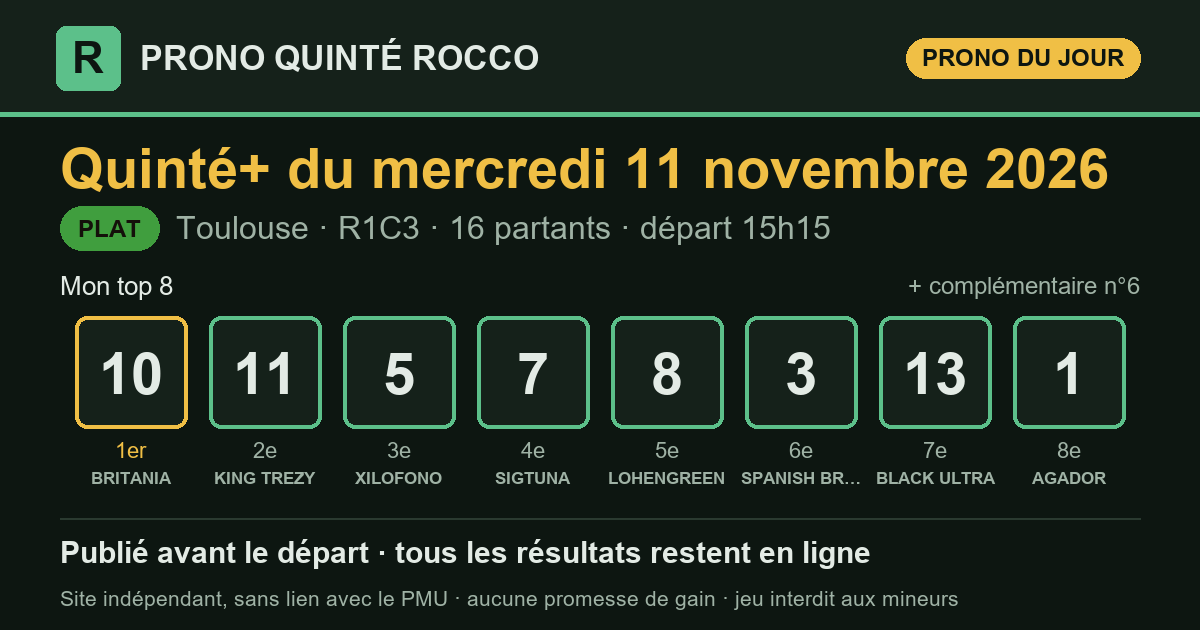
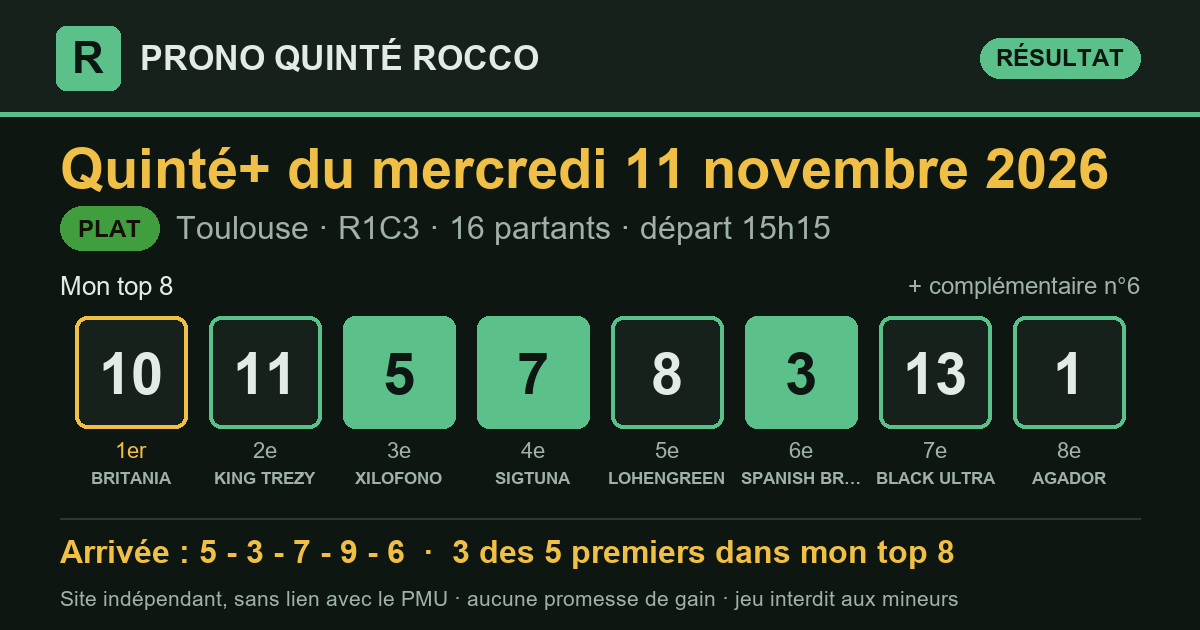
Résultat du Quinté+ 2026-11-11 Toulouse R1C3 — publié le 11/11/2026 16:24 (heure de Paris)

diff --git a/partants.html b/partants.html
@@ -3,7 +3,7 @@
 <head>
 <meta charset="utf-8">
 <meta name="viewport" content="width=device-width, initial-scale=1, viewport-fit=cover">
-<title>Partants du Quinté+ du mercredi 11 novembre 2026 — Prono Quinté Rocco</title>
+<title>Partants du Quinté+ du jeudi 12 novembre 2026 — Prono Quinté Rocco</title>
 <meta name="description" content="Les partants du prochain Quinté+ (programme officiel du PMU), avec le rang de chaque cheval dans mon prono et les liens vers les pronostics de la presse.">
 <link rel="canonical" href="https://prono-quinte-rocco.fr/partants.html">
 <link rel="stylesheet" href="style.css?v=97adbe73">
@@ -13,7 +13,7 @@
 <meta property="og:site_name" content="Prono Quinté Rocco">
 <meta property="og:locale" content="fr_FR">
 <meta property="og:type" content="website">
-<meta property="og:title" content="Partants du Quinté+ du mercredi 11 novembre 2026 — Prono Quinté Rocco">
+<meta property="og:title" content="Partants du Quinté+ du jeudi 12 novembre 2026 — Prono Quinté Rocco">
 <meta property="og:description" content="Les partants du prochain Quinté+ (programme officiel du PMU), avec le rang de chaque cheval dans mon prono et les liens vers les pronostics de la presse.">
 <meta property="og:url" content="https://prono-quinte-rocco.fr/partants.html">
 <meta name="twitter:card" content="summary">
@@ -30,100 +30,105 @@
   <p class="surtitre">Programme officiel du PMU</p>
   <h1>Les partants du prochain Quinté+</h1>
   <div class="fiche-course">
-    <p class="fiche-date">Mercredi 11 novembre 2026</p>
-    <div class="fiche-rc"><span class="pastille" title="Réunion 1">R1</span><span class="pastille" title="Course 3">C3</span><span class="fiche-nom">Prix de la Ville de Toulouse</span></div>
-    <p class="meta"><span class="type t-plat">Plat</span>La Cepiere · 2 400 m · 16 partants</p>
-    <p class="fiche-depart">Départ <b>15:15</b> <span>heure de Paris</span></p>
+    <p class="fiche-date">Jeudi 12 novembre 2026</p>
+    <div class="fiche-rc"><span class="pastille" title="Réunion 1">R1</span><span class="pastille" title="Course 1">C1</span><span class="fiche-nom">Prix Marcel Laurent</span></div>
+    <p class="meta"><span class="type t-attele">Trot attelé</span>Vincennes · 2 100 m · 16 partants</p>
+    <p class="fiche-depart">Départ <b>13:55</b> <span>heure de Paris</span></p>
   </div>
   <p class="surtitre">Les pronostics ailleurs sur le web</p>
-  <div class="liens"><a class="lien-ext" href="https://www.turfoo.fr/programmes-courses/261111/reunion1-toulouse/course3-prix-de-la-ville-de-toulouse/pronostics-presse/" rel="noopener" target="_blank"><b>Les pronostics de la presse →</b><span>sur Turfoo (site extérieur)</span></a><a class="lien-ext" href="https://www.geny.com/programme/2026-11-11" rel="noopener" target="_blank"><b>Partants et pronostics →</b><span>programme du jour sur Geny (site extérieur)</span></a></div>
+  <div class="liens"><a class="lien-ext" href="https://www.turfoo.fr/programmes-courses/261112/reunion1-vincennes/course1-prix-marcel-laurent/pronostics-presse/" rel="noopener" target="_blank"><b>Les pronostics de la presse →</b><span>sur Turfoo (site extérieur)</span></a><a class="lien-ext" href="https://www.geny.com/programme/2026-11-12" rel="noopener" target="_blank"><b>Partants et pronostics →</b><span>programme du jour sur Geny (site extérieur)</span></a></div>
   <div class="liste-boite"><table class="liste-partants">
     <thead><tr><th>N°</th><th>Cheval</th><th class="cote"><span class="long">Cote du matin</span><span class="court">Cote</span></th>
     <th class="ia"><span class="long">Mon prono</span><span class="court">Prono</span></th></tr></thead>
     <tbody><tr>
   <td><span class="tapis petit">1</span></td>
-  <td><span class="cheval">AGADOR</span><span class="sous">M.FOREST · J.RESIMONT</span></td>
-  <td class="cote num">18,0</td>
-  <td class="ia"><span class="etat place">8<sup>e</sup></span></td>
+  <td><span class="cheval">LOMBOK JIEL</span><span class="sous">P.Y. VERVA · J.L. DERSOIR</span></td>
+  <td class="cote num">—</td>
+  <td class="ia">—</td>
 </tr><tr>
   <td><span class="tapis petit">2</span></td>
-  <td><span class="cheval">POCA GEN</span><span class="sous">T.PICCONE · MME C.HERISSON DE BEAUVOIR</span></td>
-  <td class="cote num">24,0</td>
+  <td><span class="cheval">FRANK GIO</span><span class="sous">M. ABRIVARD · S. GUARATO</span></td>
+  <td class="cote num">—</td>
   <td class="ia">—</td>
 </tr><tr>
   <td><span class="tapis petit">3</span></td>
-  <td><span class="cheval">SPANISH BREEZE CEN</span><span class="sous">A.LEMAITRE · P.OLAVE VALDIVIELSO</span></td>
-  <td class="cote num">9,1</td>
-  <td class="ia"><span class="etat place">6<sup>e</sup></span></td>
+  <td><span class="cheval">LIONHEART</span><span class="sous">N. BAZIRE · N. BAZIRE</span></td>
+  <td class="cote num">—</td>
+  <td class="ia">—</td>
 </tr><tr>
   <td><span class="tapis petit">4</span></td>
-  <td><span class="cheval">SHARP RISE</span><span class="sous">A.GAVILAN · MME S.AUDOY</span></td>
-  <td class="cote num">46,0</td>
+  <td><span class="cheval">MAGIC NIGHT</span><span class="sous">B. ROCHARD · PH. ALLAIRE</span></td>
+  <td class="cote num">—</td>
   <td class="ia">—</td>
 </tr><tr>
   <td><span class="tapis petit">5</span></td>
-  <td><span class="cheval">XILOFONO</span><span class="sous">V.JANACEK · G.ARIZKORRETA ELOSEGUI</span></td>
-  <td class="cote num">14,0</td>
-  <td class="ia"><span class="etat place">3<sup>e</sup></span></td>
+  <td><span class="cheval">FALCO KILLER GAR</span><span class="sous">CL. DUVALDESTIN · TH. DUVALDESTIN</span></td>
+  <td class="cote num">—</td>
+  <td class="ia">—</td>
 </tr><tr>
   <td><span class="tapis petit">6</span></td>
-  <td><span class="cheval">NOLITO</span><span class="sous">G.GUEDJ-GAY · MME S.GAVILAN</span></td>
-  <td class="cote num">22,0</td>
-  <td class="ia"><span class="etat place">compl.</span></td>
+  <td><span class="cheval">LIZA JOSSELYN</span><span class="sous">J.M. BAZIRE · N. BAZIRE</span></td>
+  <td class="cote num">—</td>
+  <td class="ia">—</td>
 </tr><tr>
   <td><span class="tapis petit">7</span></td>
-  <td><span class="cheval">SIGTUNA</span><span class="sous">H.MOUESAN · D.WATRIGANT (S)</span></td>
-  <td class="cote num">14,0</td>
-  <td class="ia"><span class="etat place">4<sup>e</sup></span></td>
+  <td><span class="cheval">MAITRE JACQUES</span><span class="sous">LEO ABRIVARD · L.CL. ABRIVARD</span></td>
+  <td class="cote num">—</td>
+  <td class="ia">—</td>
 </tr><tr>
   <td><span class="tapis petit">8</span></td>
-  <td><span class="cheval">LOHENGREEN</span><span class="sous">M.GRANDIN · C.ESCUDER</span></td>
-  <td class="cote num">11,0</td>
-  <td class="ia"><span class="etat place">5<sup>e</sup></span></td>
+  <td><span class="cheval">BULLET THE BLUESKY</span><span class="sous">D. WAJERSTEN · Daniel WAJERSTEN</span></td>
+  <td class="cote num">—</td>
+  <td class="ia">—</td>
 </tr><tr>
   <td><span class="tapis petit">9</span></td>
-  <td><span class="cheval">ZILYA</span><span class="sous">D.PROVOST · M.CESANDRI (S)</span></td>
-  <td class="cote num">29,0</td>
+  <td><span class="cheval">L&#x27;AS DESBOIS</span><span class="sous">W. BIGEON · W. BIGEON</span></td>
+  <td class="cote num">—</td>
   <td class="ia">—</td>
 </tr><tr>
   <td><span class="tapis petit">10</span></td>
-  <td><span class="cheval">BRITANIA</span><span class="sous">I.MENDIZABAL · F.ROHAUT (S)</span></td>
-  <td class="cote num">4,9</td>
-  <td class="ia"><span class="etat place">1<sup>er</sup></span></td>
+  <td><span class="cheval">LANCIER DU GOUTIER</span><span class="sous">THEO DUVALDESTIN · TH. DUVALDESTIN</span></td>
+  <td class="cote num">—</td>
+  <td class="ia">—</td>
 </tr><tr>
   <td><span class="tapis petit">11</span></td>
-  <td><span class="cheval">KING TREZY</span><span class="sous">R.THOMAS · C&amp;Y.LERNER (S)</span></td>
-  <td class="cote num">4,6</td>
-  <td class="ia"><span class="etat place">2<sup>e</sup></span></td>
+  <td><span class="cheval">LIBERTE DE CHOISEL</span><span class="sous">A. BARRIER · S.G. DUPONT</span></td>
+  <td class="cote num">—</td>
+  <td class="ia">—</td>
 </tr><tr>
   <td><span class="tapis petit">12</span></td>
-  <td><span class="cheval">GOLD PLAYER</span><span class="sous">A.CRASTUS · F.FORESI</span></td>
-  <td class="cote num">25,0</td>
+  <td><span class="cheval">LORD DU BASSIN</span><span class="sous">A. ABRIVARD · L.CL. ABRIVARD</span></td>
+  <td class="cote num">—</td>
   <td class="ia">—</td>
 </tr><tr>
   <td><span class="tapis petit">13</span></td>
-  <td><span class="cheval">BLACK ULTRA</span><span class="sous">A.WERLE · O.TRIGODET (S)</span></td>
-  <td class="cote num">13,0</td>
-  <td class="ia"><span class="etat place">7<sup>e</sup></span></td>
+  <td><span class="cheval">MADRID HAUFOR</span><span class="sous">D. BONNE · CH. BIGEON</span></td>
+  <td class="cote num">—</td>
+  <td class="ia">—</td>
 </tr><tr>
   <td><span class="tapis petit">14</span></td>
-  <td><span class="cheval">GEORGES VILLE</span><span class="sous">R.DUBORD · AJ.BAPTISTA RIBEIRO DE ABREU</span></td>
-  <td class="cote num">20,0</td>
+  <td><span class="cheval">KOOGOO GAAGAA</span><span class="sous">R. CONGARD · N. BAZIRE</span></td>
+  <td class="cote num">—</td>
   <td class="ia">—</td>
 </tr><tr>
   <td><span class="tapis petit">15</span></td>
-  <td><span class="cheval">SPANISH LIGHT</span><span class="sous">M.FOULON · RC.MONTENEGRO</span></td>
-  <td class="cote num">26,0</td>
+  <td><span class="cheval">MILA DES COUPERIES</span><span class="sous">L.CL. ABRIVARD · L.CL. ABRIVARD</span></td>
+  <td class="cote num">—</td>
   <td class="ia">—</td>
 </tr><tr>
   <td><span class="tapis petit">16</span></td>
-  <td><span class="cheval">SWISS MONEY</span><span class="sous">A.MEROU · MME AL.GUILDOUX</span></td>
-  <td class="cote num">53,0</td>
+  <td><span class="cheval">L&#x27;ECRIN D&#x27;OR</span><span class="sous">A. REBECHE · L.CL. ABRIVARD</span></td>
+  <td class="cote num">—</td>
+  <td class="ia">—</td>
+</tr><tr class="np">
+  <td><span class="tapis petit">17</span></td>
+  <td><span class="cheval">MIDWAY LADY</span><span class="sous">J. DUBOIS · Sté. Ent. Etienne DUBOIS</span></td>
+  <td class="cote num">NP</td>
   <td class="ia">—</td>
 </tr></tbody>
   </table></div>
-  <p class="meta">La colonne « Mon prono » donne le rang de chaque cheval dans mon top 8, tel qu&#x27;il est publié sur ce site. Sous chaque cheval : jockey · entraîneur. Partants et cotes : programme
-  officiel du PMU, lu le 11/11 à 11:53 (heure de Paris). NP = non-partant.</p>
+  <p class="meta">Mon prono de cette course sera publié le matin de la course, avant le départ. Sous chaque cheval : driver · entraîneur. Partants et cotes : programme
+  officiel du PMU, lu le 11/11 à 16:24 (heure de Paris). NP = non-partant.</p>
 </section>
 </main>
 <footer class="pied">

diff --git a/index.html b/index.html
@@ -16,7 +16,7 @@
 <meta property="og:title" content="Pronostics Quinté+ et e-Super Pick5 du mercredi 11 novembre 2026 — Prono Quinté Rocco">
 <meta property="og:description" content="Pronostics Quinté+ et e-Super Pick5 du jour : mes top 8, publiés avant le départ, puis tous les résultats et le rendement réel.">
 <meta property="og:url" content="https://prono-quinte-rocco.fr/">
-<meta property="og:image" content="https://prono-quinte-rocco.fr/partage/jour-2026-11-11.png?v=dde22173">
+<meta property="og:image" content="https://prono-quinte-rocco.fr/partage/jour-2026-11-11.png?v=25cbda29">
 <meta property="og:image:type" content="image/png">
 <meta property="og:image:width" content="1200">
 <meta property="og:image:height" content="630">
@@ -32,7 +32,7 @@
 <div class="jeux j-quinte" role="navigation" aria-label="Choix du jeu"><a class="jeu jeu-quinte actif" href="index.html" aria-current="true">Quinté+</a><a class="jeu jeu-sp5" href="superpick5.html">e-Super Pick5<small>entre 17 h et 19 h</small></a></div>
 <main>
 <section class="une" aria-labelledby="t-jour">
-  <p class="surtitre">Quinté+ du jour</p>
+  <p class="surtitre">Dernier Quinté+</p>
   <h1 id="t-jour">Le prono du Quinté+, résultats compris</h1>
   <p class="chapo">Chaque matin, j'étudie les partants du Quinté+ avec le logiciel que
   j'ai conçu, selon ma propre méthode, qu'une intelligence artificielle m'aide à
@@ -43,10 +43,13 @@
   <p class="meta">Toulouse · <strong>R1C3</strong> · 16 partants · <span class="lisib">lisibilité <span class="note" aria-label="note 2 sur 5" title="lisibilité 2/5 : course ouverte"><i class="on"></i><i class="on"></i><i class=""></i><i class=""></i><i class=""></i></span> 2/5</span></p>
   <div class="zone-prono">
     <h3 class="zone-titre">Mon top 8</h3>
-    <ol class="partants" aria-label="Mon top 8"><li><span class="rang">1<sup>er</sup></span><span class="tapis ">10</span><span class="nom">BRITANIA</span></li><li><span class="rang">2<sup>e</sup></span><span class="tapis ">11</span><span class="nom">KING TREZY</span></li><li><span class="rang">3<sup>e</sup></span><span class="tapis ">5</span><span class="nom">XILOFONO</span></li><li><span class="rang">4<sup>e</sup></span><span class="tapis ">7</span><span class="nom">SIGTUNA</span></li><li><span class="rang">5<sup>e</sup></span><span class="tapis ">8</span><span class="nom">LOHENGREEN</span></li><li><span class="rang">6<sup>e</sup></span><span class="tapis ">3</span><span class="nom">SPANISH BREEZE CEN</span></li><li><span class="rang">7<sup>e</sup></span><span class="tapis ">13</span><span class="nom">BLACK ULTRA</span></li><li><span class="rang">8<sup>e</sup></span><span class="tapis ">1</span><span class="nom">AGADOR</span></li><li><span class="rang">compl.</span><span class="tapis creux">6</span><span class="nom">NOLITO</span></li></ol>
+    <ol class="partants" aria-label="Mon top 8"><li><span class="rang">1<sup>er</sup></span><span class="tapis ">10</span><span class="nom">BRITANIA</span></li><li><span class="rang">2<sup>e</sup></span><span class="tapis ">11</span><span class="nom">KING TREZY</span></li><li><span class="rang">3<sup>e</sup></span><span class="tapis plein">5</span><span class="nom">XILOFONO</span></li><li><span class="rang">4<sup>e</sup></span><span class="tapis plein">7</span><span class="nom">SIGTUNA</span></li><li><span class="rang">5<sup>e</sup></span><span class="tapis ">8</span><span class="nom">LOHENGREEN</span></li><li><span class="rang">6<sup>e</sup></span><span class="tapis plein">3</span><span class="nom">SPANISH BREEZE CEN</span></li><li><span class="rang">7<sup>e</sup></span><span class="tapis ">13</span><span class="nom">BLACK ULTRA</span></li><li><span class="rang">8<sup>e</sup></span><span class="tapis ">1</span><span class="nom">AGADOR</span></li><li><span class="rang">compl.</span><span class="tapis creux plein">6</span><span class="nom">NOLITO</span></li></ol>
     <div class="pied-carte"><span>Analysé le 11/11 à 11:29 · en ligne le 11/11 à 11:37 · départ à 15:15 (heure de Paris)</span><span><a href="quinte/2026-11-11.html">Détail de la course</a></span></div>
   </div>
-  <div class="zone-arrivee attente"><p>L'arrivée officielle s'affichera ici après la course.</p></div>
+  <div class="zone-arrivee">
+    <div class="zone-tete"><h3 class="zone-titre">Arrivée officielle</h3><span class="etat non">3 des 5 premiers dans mon top 8</span><span class="etat non">mon 1er (n°10) : non placé</span></div>
+    <ol class="partants" aria-label="Arrivée officielle"><li><span class="rang">1<sup>er</sup></span><span class="tapis plein">5</span><span class="nom">XILOFONO</span></li><li><span class="rang">2<sup>e</sup></span><span class="tapis plein">3</span><span class="nom">SPANISH BREEZE CEN</span></li><li><span class="rang">3<sup>e</sup></span><span class="tapis plein">7</span><span class="nom">SIGTUNA</span></li><li><span class="rang">4<sup>e</sup></span><span class="tapis hors">9</span><span class="nom">ZILYA</span></li><li><span class="rang">5<sup>e</sup></span><span class="tapis creux plein">6</span><span class="nom">NOLITO</span></li></ol>
+  </div>
 </article>
 </section>
 <section class="suivre" aria-label="Suivre et soutenir">
@@ -76,7 +79,7 @@
 </section>
 <section class="bilan" aria-labelledby="t-bilan">
   <h2 id="t-bilan">Mon bilan depuis le 8 septembre 2026</h2>
-  <div class="tableau chiffres"><div class="case"><span class="gros ">73 %</span><span class="lib">des arrivants trouvés dans mon top 8</span><span class="ref">un top 8 tiré au hasard : 51 %</span></div><div class="case"><span class="gros ">87 %</span><span class="lib">des gagnants présents dans mon top 8</span><span class="ref"></span></div><div class="case"><span class="gros ">51 %</span><span class="lib">mon 1er placé</span><span class="ref">sur 63 Quintés</span></div><div class="case"><span class="gros perte">0,94 €</span><span class="lib">rendus pour 1 € joué placé sur mon 1er</span><span class="ref">rapports officiels PMU</span></div><div class="case"><span class="gros perte">0,44 €</span><span class="lib">rendus pour 1 € joué en Quinté+ combiné sur mon top 8</span><span class="ref">56 combinaisons, rapports PMU.fr, sur 63 Quintés</span></div></div>
+  <div class="tableau chiffres"><div class="case"><span class="gros ">72 %</span><span class="lib">des arrivants trouvés dans mon top 8</span><span class="ref">un top 8 tiré au hasard : 51 %</span></div><div class="case"><span class="gros ">88 %</span><span class="lib">des gagnants présents dans mon top 8</span><span class="ref"></span></div><div class="case"><span class="gros ">51 %</span><span class="lib">mon 1er placé</span><span class="ref">sur 63 Quintés</span></div><div class="case"><span class="gros perte">0,94 €</span><span class="lib">rendus pour 1 € joué placé sur mon 1er</span><span class="ref">rapports officiels PMU</span></div><div class="case"><span class="gros perte">0,44 €</span><span class="lib">rendus pour 1 € joué en Quinté+ combiné sur mon top 8</span><span class="ref">56 combinaisons, rapports PMU.fr, sur 64 Quintés</span></div></div>
   <p class="avertissement">Moins de 1 € rendu pour 1 € joué : suivre mon prono à la lettre fait <strong>perdre de l'argent</strong> sur cette période. Il sert à analyser une course, pas à promettre un gain.</p>
 </section>
 </main>

diff --git a/quinte/2026-11-11.html b/quinte/2026-11-11.html
@@ -16,7 +16,7 @@
 <meta property="og:title" content="Pronostic Quinté+ du mercredi 11 novembre 2026 à Toulouse — Prono Quinté Rocco">
 <meta property="og:description" content="Prono Quinté+ du mercredi 11 novembre 2026 (Toulouse) : mon top 8, l&#x27;arrivée officielle et les rapports PMU.fr.">
 <meta property="og:url" content="https://prono-quinte-rocco.fr/quinte/2026-11-11.html">
-<meta property="og:image" content="https://prono-quinte-rocco.fr/partage/2026-11-11.png?v=1947ffba">
+<meta property="og:image" content="https://prono-quinte-rocco.fr/partage/2026-11-11.png?v=4e06ae20">
 <meta property="og:image:type" content="image/png">
 <meta property="og:image:width" content="1200">
 <meta property="og:image:height" content="630">
@@ -36,15 +36,25 @@
   <h1>Pronostic Quinté+ du mercredi 11 novembre 2026</h1>
   <p class="chapo">Toulouse · R1C3 · Plat · 16 partants</p>
   <article class="carte-course">
-  <div class="tete"><h2>Mon prono</h2><span class="type t-plat">Plat</span></div>
+  <div class="tete"><h2>Mon prono et l&#x27;arrivée officielle</h2><span class="type t-plat">Plat</span></div>
   <p class="meta">Toulouse · <strong>R1C3</strong> · 16 partants · <span class="lisib">lisibilité <span class="note" aria-label="note 2 sur 5" title="lisibilité 2/5 : course ouverte"><i class="on"></i><i class="on"></i><i class=""></i><i class=""></i><i class=""></i></span> 2/5</span></p>
   <div class="zone-prono">
     <h3 class="zone-titre">Mon top 8</h3>
-    <ol class="partants" aria-label="Mon top 8"><li><span class="rang">1<sup>er</sup></span><span class="tapis ">10</span><span class="nom">BRITANIA</span></li><li><span class="rang">2<sup>e</sup></span><span class="tapis ">11</span><span class="nom">KING TREZY</span></li><li><span class="rang">3<sup>e</sup></span><span class="tapis ">5</span><span class="nom">XILOFONO</span></li><li><span class="rang">4<sup>e</sup></span><span class="tapis ">7</span><span class="nom">SIGTUNA</span></li><li><span class="rang">5<sup>e</sup></span><span class="tapis ">8</span><span class="nom">LOHENGREEN</span></li><li><span class="rang">6<sup>e</sup></span><span class="tapis ">3</span><span class="nom">SPANISH BREEZE CEN</span></li><li><span class="rang">7<sup>e</sup></span><span class="tapis ">13</span><span class="nom">BLACK ULTRA</span></li><li><span class="rang">8<sup>e</sup></span><span class="tapis ">1</span><span class="nom">AGADOR</span></li><li><span class="rang">compl.</span><span class="tapis creux">6</span><span class="nom">NOLITO</span></li></ol>
+    <ol class="partants" aria-label="Mon top 8"><li><span class="rang">1<sup>er</sup></span><span class="tapis ">10</span><span class="nom">BRITANIA</span></li><li><span class="rang">2<sup>e</sup></span><span class="tapis ">11</span><span class="nom">KING TREZY</span></li><li><span class="rang">3<sup>e</sup></span><span class="tapis plein">5</span><span class="nom">XILOFONO</span></li><li><span class="rang">4<sup>e</sup></span><span class="tapis plein">7</span><span class="nom">SIGTUNA</span></li><li><span class="rang">5<sup>e</sup></span><span class="tapis ">8</span><span class="nom">LOHENGREEN</span></li><li><span class="rang">6<sup>e</sup></span><span class="tapis plein">3</span><span class="nom">SPANISH BREEZE CEN</span></li><li><span class="rang">7<sup>e</sup></span><span class="tapis ">13</span><span class="nom">BLACK ULTRA</span></li><li><span class="rang">8<sup>e</sup></span><span class="tapis ">1</span><span class="nom">AGADOR</span></li><li><span class="rang">compl.</span><span class="tapis creux plein">6</span><span class="nom">NOLITO</span></li></ol>
     <div class="pied-carte"><span>Analysé le 11/11 à 11:29 · en ligne le 11/11 à 11:37 · départ à 15:15 (heure de Paris)</span><span></span></div>
   </div>
-  <div class="zone-arrivee attente"><p>L'arrivée officielle s'affichera ici après la course.</p></div>
+  <div class="zone-arrivee">
+    <div class="zone-tete"><h3 class="zone-titre">Arrivée officielle</h3><span class="etat non">3 des 5 premiers dans mon top 8</span><span class="etat non">mon 1er (n°10) : non placé</span></div>
+    <ol class="partants" aria-label="Arrivée officielle"><li><span class="rang">1<sup>er</sup></span><span class="tapis plein">5</span><span class="nom">XILOFONO</span></li><li><span class="rang">2<sup>e</sup></span><span class="tapis plein">3</span><span class="nom">SPANISH BREEZE CEN</span></li><li><span class="rang">3<sup>e</sup></span><span class="tapis plein">7</span><span class="nom">SIGTUNA</span></li><li><span class="rang">4<sup>e</sup></span><span class="tapis hors">9</span><span class="nom">ZILYA</span></li><li><span class="rang">5<sup>e</sup></span><span class="tapis creux plein">6</span><span class="nom">NOLITO</span></li></ol>
+  </div>
 </article>
+<section class="carte-course rapports" aria-labelledby="t-rap">
+  <div class="tete"><h2 id="t-rap">Les rapports</h2></div>
+  <div class="deux">
+    <div><h3>Ce qu'aurait rendu mon prono</h3><dl class="kv"><dt>1 € placé sur mon 1er (n°10)</dt><dd>rapport manquant</dd><dt>1 € gagnant sur mon 1er</dt><dd>rapport manquant</dd><dt>Quinté+ combiné sur mon top 8 (mise 112 €)</dt><dd class="partiel"><span class="etat partiel somme">62,00 €</span></dd><dt>dont</dt><dd>Bonus 3 × 10</dd></dl></div>
+    <div><h3>Rapports officiels</h3><dl class="kv"><dt>e-Quinté+ Ordre (2 €)</dt><dd>46 424,60 €</dd><dt>e-Quinté+ Désordre (2 €)</dt><dd>660,00 €</dd><dt>e-Bonus 4sur5 (2 €)</dt><dd>12,60 €</dd><dt>e-Bonus 3 (2 €)</dt><dd>6,20 €</dd></dl></div>
+  </div>
+</section>
 </section>
 </main>
 <footer class="pied">

diff --git a/resultats.html b/resultats.html
@@ -49,12 +49,12 @@
     <th colspan="4" class="res g-res">Le résultat officiel</th></tr>
     <tr><th>Date</th><th>Course</th><th>Top 8</th><th class="c-lis">Lisibilité</th><th class="res c-arr">Arrivée</th>
     <th class="res">Trouvés</th><th class="res">Mon 1er</th><th class="res mont">Quinté+ top 8<br><small>(mise 112 €)</small></th></tr></thead>
-    <tbody><tr class="attente">
+    <tbody><tr>
   <td class="c-date"><a href="quinte/2026-11-11.html">11/11</a></td>
   <td class="c-course">Toulouse<br><span class="meta">R1C3</span><span class="type t-plat petit">Plat</span></td>
-  <td class="c-top8" data-label="Mon top 8"><div class="rangee"><span class="tapis petit">10</span><span class="tapis petit">11</span><span class="tapis petit">5</span><span class="tapis petit">7</span><span class="tapis petit">8</span><span class="tapis petit">3</span><span class="tapis petit">13</span><span class="tapis petit">1</span></div></td>
+  <td class="c-top8" data-label="Mon top 8"><div class="rangee"><span class="tapis petit">10</span><span class="tapis petit">11</span><span class="tapis plein petit">5</span><span class="tapis plein petit">7</span><span class="tapis petit">8</span><span class="tapis plein petit">3</span><span class="tapis petit">13</span><span class="tapis petit">1</span></div></td>
   <td class="c-lis" data-label="Lisibilité"><span class="note" aria-label="note 2 sur 5" title="lisibilité 2/5 : course ouverte"><i class="on"></i><i class="on"></i><i class=""></i><i class=""></i><i class=""></i></span> 2/5</td>
-  <td class="res c-arr" data-label="Arrivée"><span class="etat attente">en attente</span></td><td class="res num c-trouves" data-label="Trouvés">—</td><td class="res c-premier" data-label="Mon 1er"><span class="etat attente">—</span></td><td class="res mont c-mont" data-label="Quinté+ top 8 (mise 112 €)">—</td>
+  <td class="res c-arr" data-label="Arrivée"><div class="rangee"><span class="tapis plein petit" title="1er">5</span><span class="tapis plein petit" title="2e">3</span><span class="tapis plein petit" title="3e">7</span><span class="tapis hors petit" title="4e">9</span><span class="tapis hors petit" title="5e">6</span></div></td><td class="res num c-trouves" data-label="Trouvés">3/5</td><td class="res c-premier" data-label="Mon 1er"><span class="etat non">non placé</span></td><td class="res mont c-mont partiel" data-label="Quinté+ top 8 (mise 112 €)" title="perte nette : 50,00 €"><span class="etat partiel somme">62,00 €</span></td>
 </tr><tr>
   <td class="c-date"><a href="quinte/2026-11-10.html">10/11</a></td>
   <td class="c-course">Fontainebleau<br><span class="meta">R1C4</span><span class="type t-plat petit">Plat</span></td>
@@ -438,7 +438,7 @@
 </section>
 <section class="bilan" aria-labelledby="t-bilan">
   <h2 id="t-bilan">Mon bilan depuis le 8 septembre 2026</h2>
-  <div class="tableau chiffres"><div class="case"><span class="gros ">73 %</span><span class="lib">des arrivants trouvés dans mon top 8</span><span class="ref">un top 8 tiré au hasard : 51 %</span></div><div class="case"><span class="gros ">87 %</span><span class="lib">des gagnants présents dans mon top 8</span><span class="ref"></span></div><div class="case"><span class="gros ">51 %</span><span class="lib">mon 1er placé</span><span class="ref">sur 63 Quintés</span></div><div class="case"><span class="gros perte">0,94 €</span><span class="lib">rendus pour 1 € joué placé sur mon 1er</span><span class="ref">rapports officiels PMU</span></div><div class="case"><span class="gros perte">0,44 €</span><span class="lib">rendus pour 1 € joué en Quinté+ combiné sur mon top 8</span><span class="ref">56 combinaisons, rapports PMU.fr, sur 63 Quintés</span></div></div>
+  <div class="tableau chiffres"><div class="case"><span class="gros ">72 %</span><span class="lib">des arrivants trouvés dans mon top 8</span><span class="ref">un top 8 tiré au hasard : 51 %</span></div><div class="case"><span class="gros ">88 %</span><span class="lib">des gagnants présents dans mon top 8</span><span class="ref"></span></div><div class="case"><span class="gros ">51 %</span><span class="lib">mon 1er placé</span><span class="ref">sur 63 Quintés</span></div><div class="case"><span class="gros perte">0,94 €</span><span class="lib">rendus pour 1 € joué placé sur mon 1er</span><span class="ref">rapports officiels PMU</span></div><div class="case"><span class="gros perte">0,44 €</span><span class="lib">rendus pour 1 € joué en Quinté+ combiné sur mon top 8</span><span class="ref">56 combinaisons, rapports PMU.fr, sur 64 Quintés</span></div></div>
   <p class="avertissement">Moins de 1 € rendu pour 1 € joué : suivre mon prono à la lettre fait <strong>perdre de l'argent</strong> sur cette période. Il sert à analyser une course, pas à promettre un gain.</p>
 </section>
 </main>

diff --git a/superpick5-partants.html b/superpick5-partants.html
@@ -43,7 +43,7 @@
     <tbody><tr>
   <td><span class="tapis petit">1</span></td>
   <td><span class="cheval">KNUCKLE</span><span class="sous">H.BESNIER · P.OLAVE VALDIVIELSO</span></td>
-  <td class="cote num">20,0</td>
+  <td class="cote num">14,0</td>
   <td class="ia"><span class="etat place">5<sup>e</sup></span></td>
 </tr><tr>
   <td><span class="tapis petit">2</span></td>
@@ -58,27 +58,27 @@
 </tr><tr>
   <td><span class="tapis petit">4</span></td>
   <td><span class="cheval">AU DELA DES MERS</span><span class="sous">G.GUEDJ-GAY · D.WATRIGANT (S)</span></td>
-  <td class="cote num">9,0</td>
+  <td class="cote num">7,9</td>
   <td class="ia"><span class="etat place">3<sup>e</sup></span></td>
 </tr><tr>
   <td><span class="tapis petit">5</span></td>
   <td><span class="cheval">LADY MADELEINE</span><span class="sous">F.VALLE SKAR · C&amp;Y.LERNER (S)</span></td>
-  <td class="cote num">6,8</td>
+  <td class="cote num">7,3</td>
   <td class="ia"><span class="etat place">4<sup>e</sup></span></td>
 </tr><tr>
   <td><span class="tapis petit">6</span></td>
   <td><span class="cheval">EXELMANS</span><span class="sous">M.GUYON · C.FERLAND (S)</span></td>
-  <td class="cote num">4,7</td>
+  <td class="cote num">5,1</td>
   <td class="ia"><span class="etat place">1<sup>er</sup></span></td>
 </tr><tr>
   <td><span class="tapis petit">7</span></td>
   <td><span class="cheval">EDDY&#x27;S DREAM</span><span class="sous">I.MELGAREJO LORING · MME J.JIMENEZ MENA</span></td>
-  <td class="cote num">33,0</td>
+  <td class="cote num">40,0</td>
   <td class="ia">—</td>
 </tr><tr>
   <td><span class="tapis petit">8</span></td>
   <td><span class="cheval">VARENNE</span><span class="sous">C.PACAUT · CH.GOURDAIN (S)</span></td>
-  <td class="cote num">9,4</td>
+  <td class="cote num">9,5</td>
   <td class="ia"><span class="etat place">2<sup>e</sup></span></td>
 </tr><tr>
   <td><span class="tapis petit">9</span></td>
@@ -88,17 +88,17 @@
 </tr><tr>
   <td><span class="tapis petit">10</span></td>
   <td><span class="cheval">YOGUI</span><span class="sous">V.JANACEK · G.ARIZKORRETA ELOSEGUI</span></td>
-  <td class="cote num">14,0</td>
+  <td class="cote num">15,0</td>
   <td class="ia"><span class="etat place">7<sup>e</sup></span></td>
 </tr><tr>
   <td><span class="tapis petit">11</span></td>
   <td><span class="cheval">UPPERCUT</span><span class="sous">C.MERILLE · J.RESIMONT</span></td>
-  <td class="cote num">23,0</td>
+  <td class="cote num">19,0</td>
   <td class="ia">—</td>
 </tr><tr>
   <td><span class="tapis petit">12</span></td>
   <td><span class="cheval">LONG KE WAN</span><span class="sous">T.BLANCHOUIN · MME S.GAVILAN</span></td>
-  <td class="cote num">33,0</td>
+  <td class="cote num">34,0</td>
   <td class="ia"><span class="etat place">compl.</span></td>
 </tr><tr>
   <td><span class="tapis petit">13</span></td>
@@ -113,17 +113,17 @@
 </tr><tr>
   <td><span class="tapis petit">15</span></td>
   <td><span class="cheval">EYE OF THE TIGER</span><span class="sous">I.MENDIZABAL · R.AVIAL SANCHEZ</span></td>
-  <td class="cote num">20,0</td>
+  <td class="cote num">19,0</td>
   <td class="ia">—</td>
 </tr><tr>
   <td><span class="tapis petit">16</span></td>
   <td><span class="cheval">MEXICAN DREAM</span><span class="sous">E.HARDOUIN · F.PARDON</span></td>
-  <td class="cote num">13,0</td>
+  <td class="cote num">15,0</td>
   <td class="ia">—</td>
 </tr></tbody>
   </table></div>
   <p class="meta">La colonne « Mon prono » donne le rang de chaque cheval dans mon top 8, tel qu&#x27;il est publié sur ce site. Sous chaque cheval : jockey · entraîneur. Partants et cotes : programme
-  officiel du PMU, lu le 11/11 à 11:53 (heure de Paris). NP = non-partant.</p>
+  officiel du PMU, lu le 11/11 à 16:24 (heure de Paris). NP = non-partant.</p>
 </section>
 </main>
 <footer class="pied">
